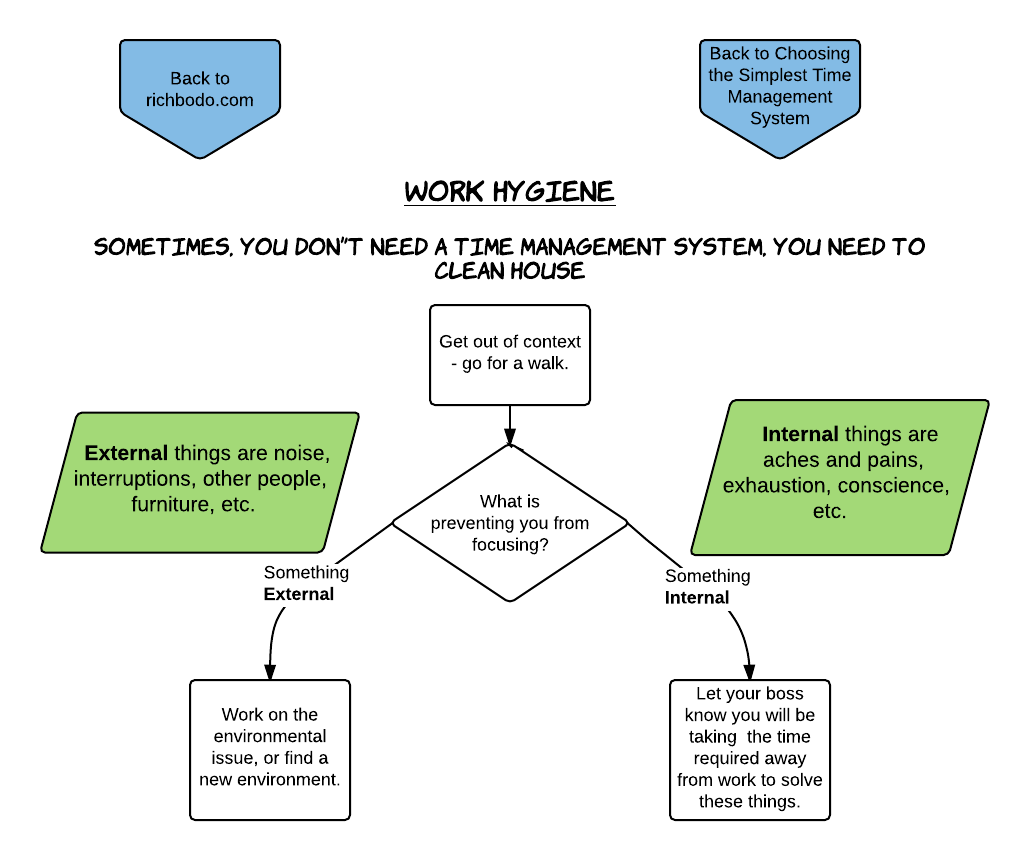
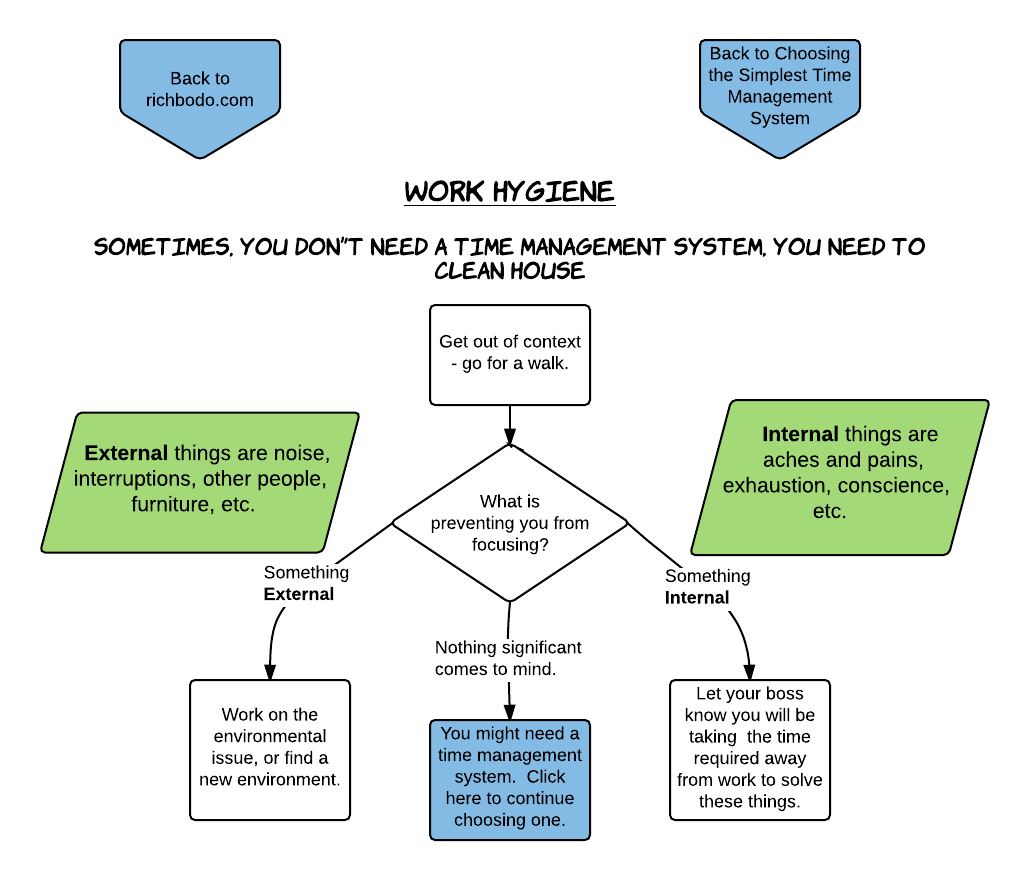
fix image and map for work hygiene

diff --git a/tmcd/work-hygiene.html b/tmcd/work-hygiene.html
@@ -1,8 +1,7 @@
 <html>
 
 <body>
-
-<img src="/images/time-management/work-hygiene.png" width="1030" height="860" border="0" usemap="#map" />
+<img src="/images/time-management/work-hygiene.png" width="1030" height="880" border="0" usemap="#map" />
 
 <map name="map">
 <!-- #$-:Image map file created by GIMP Image Map plug-in -->
@@ -10,8 +9,11 @@
 <!-- #$-:Please do not edit lines starting with "#$" -->
 <!-- #$VERSION:2.3 -->
 <!-- #$AUTHOR:Richard Bodo -->
-<area shape="rect" coords="118,38,281,160" href="http://richbodo.com" />
-<area shape="rect" coords="699,36,861,160" href="/tmcd/tm-troubleshooting.html" />
+<area shape="rect" coords="118,38,280,159" href="http://richbodo.com" />
+<area shape="rect" coords="698,36,862,159" href="/tmcd/tm-troubleshooting.html" />
+<area shape="rect" coords="428,718,591,841" href="/tmcd/tm-troubleshooting.html" />
 </map>
+
+
 </body>
 </html>
